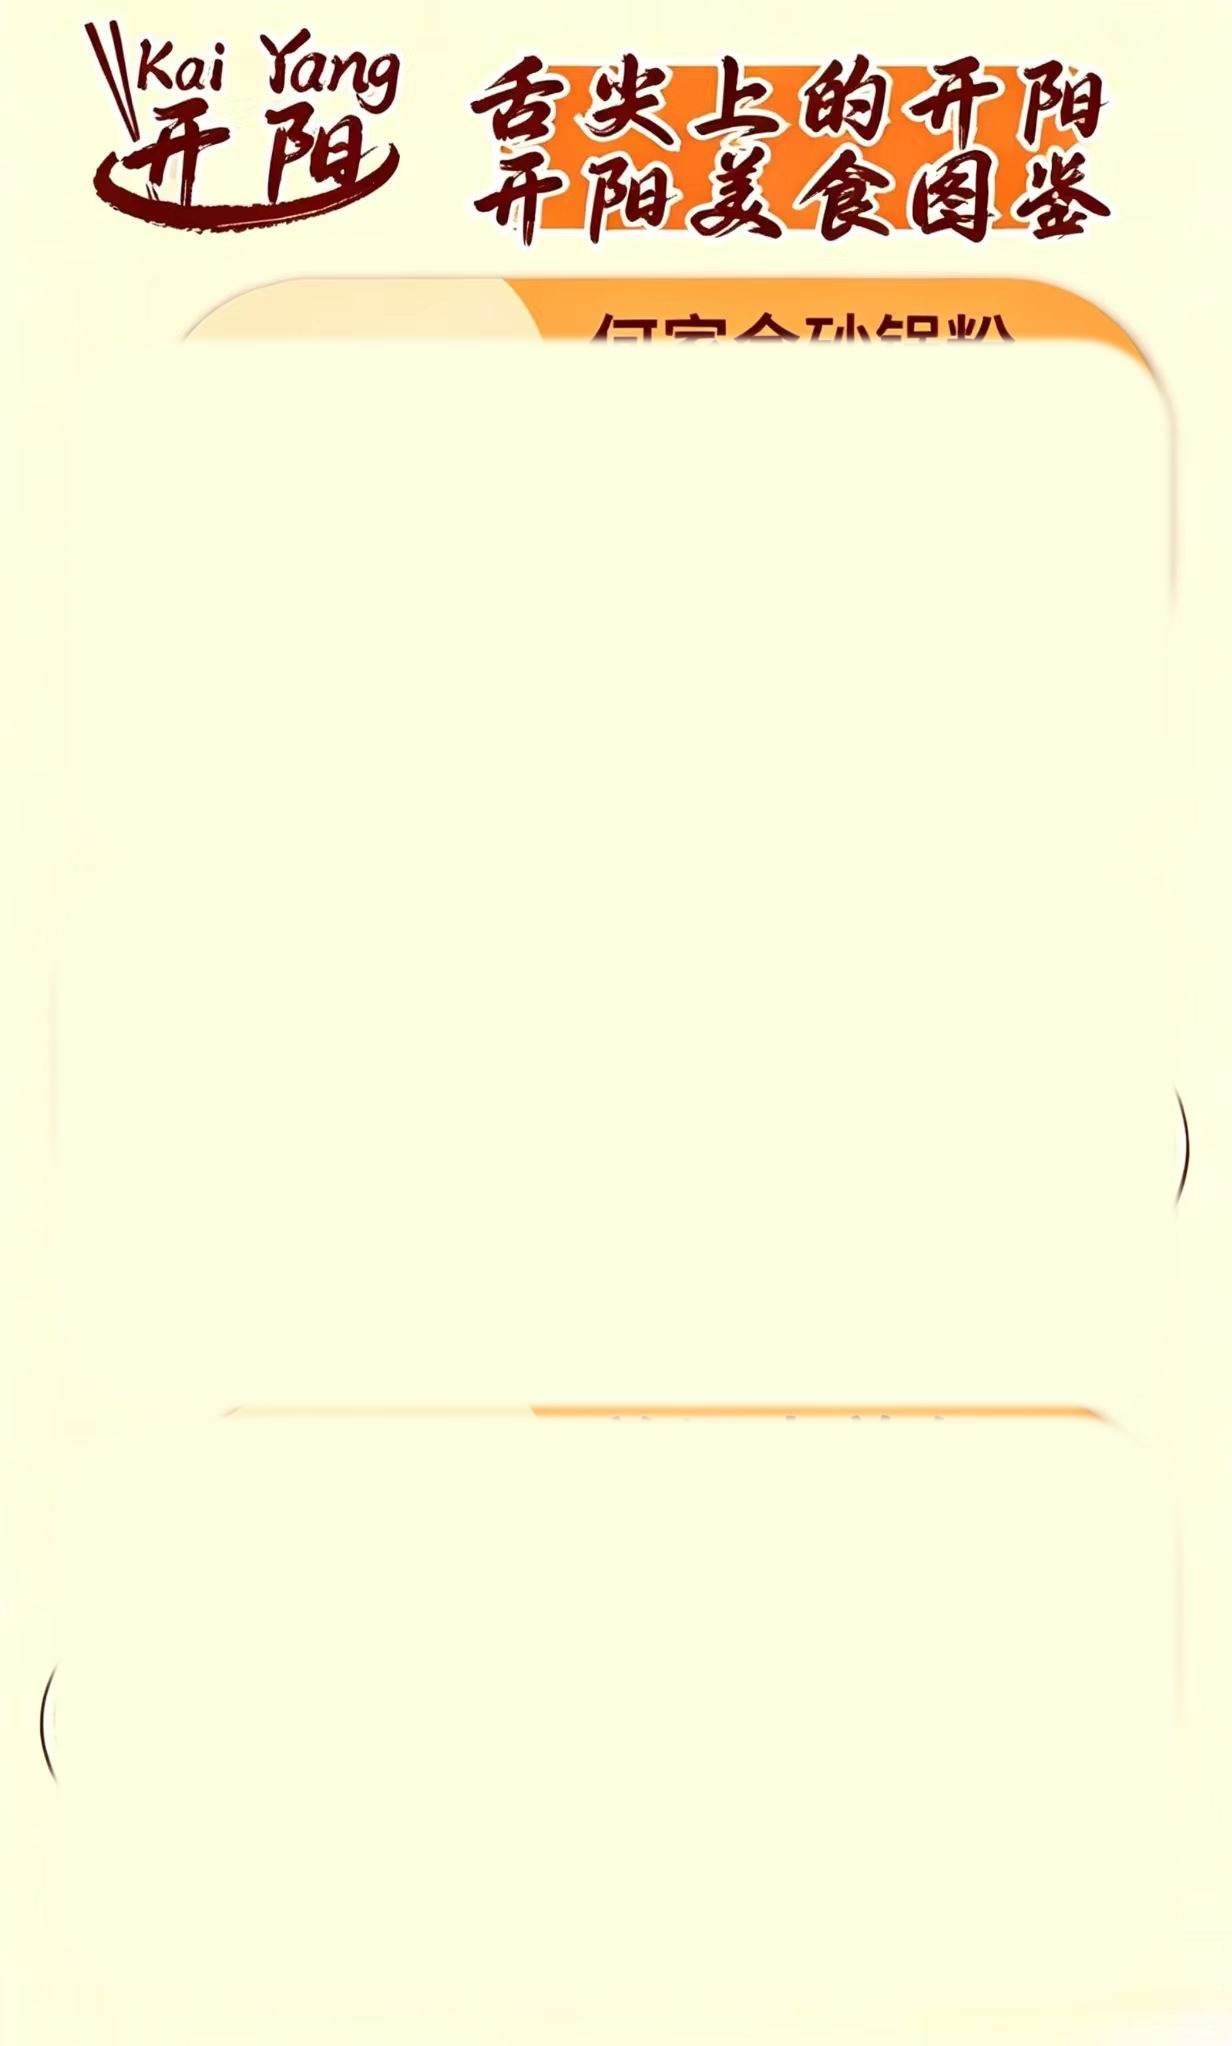
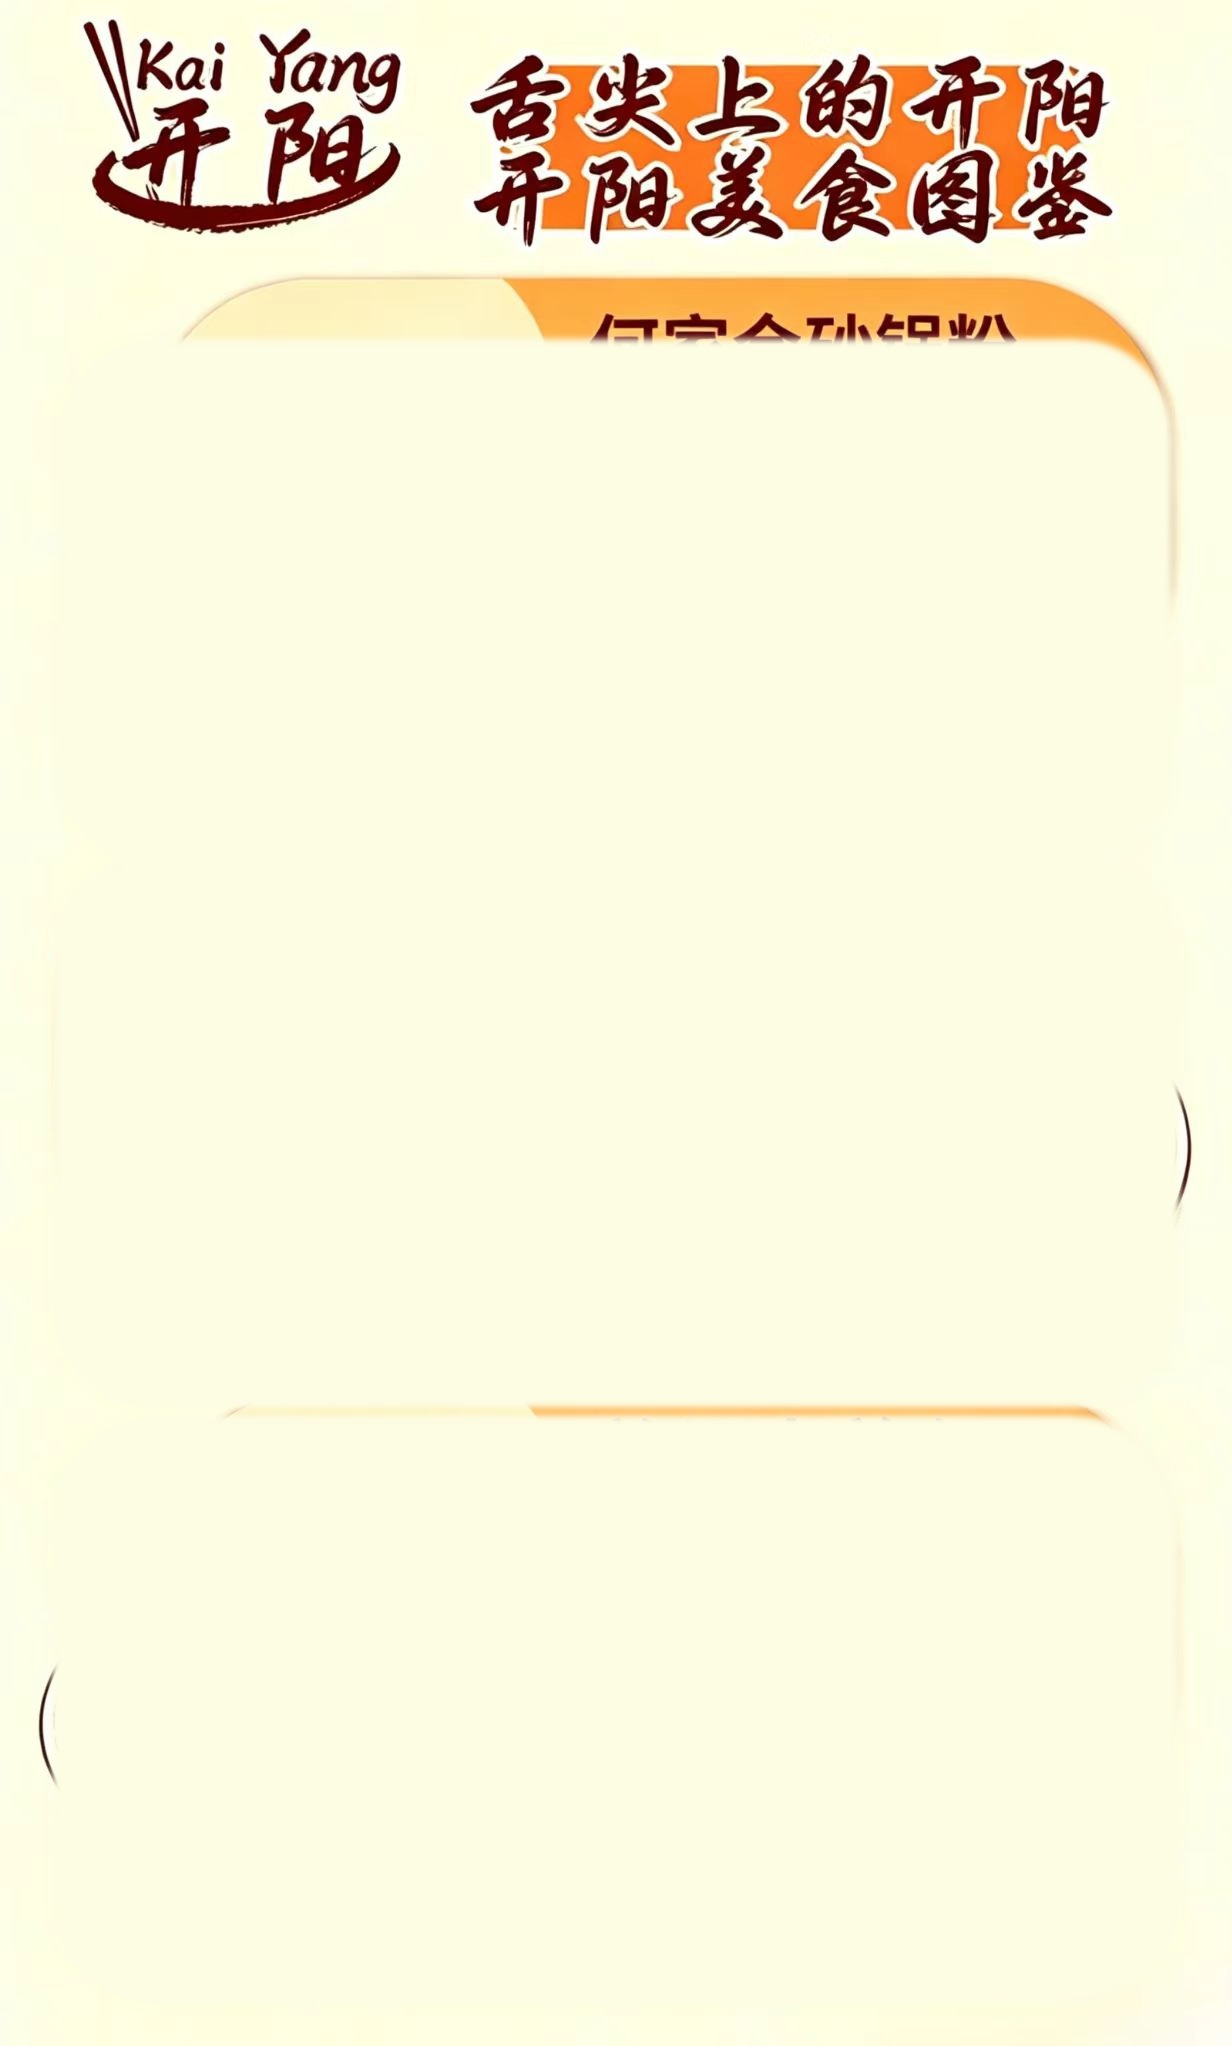
Refresh updated poster page 1.

diff --git a/js/shops.js b/js/shops.js
@@ -226,8 +226,8 @@ window.KAIYANG_FOOD_MAP = {
    */
   posterPages: [
     {
-      image: "assets/images/pages/01.jpg?v=0930g",
-      bgImage: "assets/images/pages/01-bg.jpg?v=0930g",
+      image: "assets/images/pages/01.jpg?v=0930h",
+      bgImage: "assets/images/pages/01-bg.jpg?v=0930h",
       staticPieces: [],
       titlePieces: [
         { left: 6, top: 2.6, width: 88, height: 17.6, delay: 0 },
@@ -256,8 +256,8 @@ window.KAIYANG_FOOD_MAP = {
       cardPieces: []
     },
     {
-      image: "assets/images/pages/02.jpg?v=0930g",
-      bgImage: "assets/images/pages/02-bg.jpg?v=0930g",
+      image: "assets/images/pages/02.jpg?v=0930h",
+      bgImage: "assets/images/pages/02-bg.jpg?v=0930h",
       hotspots: [
         { shopId: 1, left: 48, top: 33.2, width: 42, height: 7 },
         { shopId: 2, left: 7, top: 58.8, width: 40, height: 7 },
@@ -273,8 +273,8 @@ window.KAIYANG_FOOD_MAP = {
       ]
     },
     {
-      image: "assets/images/pages/03.jpg?v=0930g",
-      bgImage: "assets/images/pages/03-bg.jpg?v=0930g",
+      image: "assets/images/pages/03.jpg?v=0930h",
+      bgImage: "assets/images/pages/03-bg.jpg?v=0930h",
       hotspots: [
         { shopId: 4, left: 48, top: 31.2, width: 42, height: 7 },
         { shopId: 5, left: 7, top: 56.8, width: 40, height: 7 },
@@ -290,8 +290,8 @@ window.KAIYANG_FOOD_MAP = {
       ]
     },
     {
-      image: "assets/images/pages/04.jpg?v=0930g",
-      bgImage: "assets/images/pages/04-bg.jpg?v=0930g",
+      image: "assets/images/pages/04.jpg?v=0930h",
+      bgImage: "assets/images/pages/04-bg.jpg?v=0930h",
       hotspots: [
         { shopId: 7, left: 47, top: 26.2, width: 43, height: 7 },
         { shopId: 8, left: 7, top: 56.2, width: 40, height: 7.2 },
@@ -307,8 +307,8 @@ window.KAIYANG_FOOD_MAP = {
       ]
     },
     {
-      image: "assets/images/pages/05.jpg?v=0930g",
-      bgImage: "assets/images/pages/05-bg.jpg?v=0930g",
+      image: "assets/images/pages/05.jpg?v=0930h",
+      bgImage: "assets/images/pages/05-bg.jpg?v=0930h",
       hotspots: [
         { shopId: 10, left: 50, top: 26.5, width: 42, height: 7.5 },
         { shopId: 11, left: 50, top: 54.2, width: 42, height: 7.5 },
@@ -324,8 +324,8 @@ window.KAIYANG_FOOD_MAP = {
       ]
     },
     {
-      image: "assets/images/pages/06.jpg?v=0930g",
-      bgImage: "assets/images/pages/06-bg.jpg?v=0930g",
+      image: "assets/images/pages/06.jpg?v=0930h",
+      bgImage: "assets/images/pages/06-bg.jpg?v=0930h",
       hotspots: [
         { shopId: 13, left: 48, top: 28.5, width: 42, height: 7.2 },
         { shopId: 14, left: 7, top: 55.8, width: 40, height: 7.2 },
@@ -341,8 +341,8 @@ window.KAIYANG_FOOD_MAP = {
       ]
     },
     {
-      image: "assets/images/pages/07.jpg?v=0930g",
-      bgImage: "assets/images/pages/07-bg.jpg?v=0930g",
+      image: "assets/images/pages/07.jpg?v=0930h",
+      bgImage: "assets/images/pages/07-bg.jpg?v=0930h",
       hotspots: [
         { shopId: 16, left: 48, top: 28.2, width: 42, height: 7.2 },
         { shopId: 17, left: 7, top: 55.5, width: 40, height: 7.2 },

diff --git a/h5.html b/h5.html
@@ -19,7 +19,7 @@
   <meta property="og:image:width" content="500" />
   <meta property="og:image:height" content="500" />
   <link rel="image_src" href="https://kai-yang-mei-shi.onrender.com/assets/images/share-thumb.jpg" />
-  <link rel="stylesheet" href="css/h5.css?v=pop9" />
+  <link rel="stylesheet" href="css/h5.css?v=pop10" />
 </head>
 <body>
   <div class="h5-root">
@@ -37,8 +37,8 @@
       <span>上滑继续</span>
     </div>
   </div>
-  <script src="js/shops.js?v=pop9"></script>
+  <script src="js/shops.js?v=pop10"></script>
   <script src="js/share.js"></script>
-  <script src="js/h5.js?v=pop9"></script>
+  <script src="js/h5.js?v=pop10"></script>
 </body>
 </html>

diff --git a/index.html b/index.html
@@ -31,7 +31,7 @@
       <span id="dateText">贵州</span>
     </p>
     <a class="wx-cover-link" href="h5.html" id="coverLink">
-      <img id="heroImage" src="assets/images/article-cover.jpg?v=0930g" alt="开阳特色美食图鉴封面" />
+      <img id="heroImage" src="assets/images/article-cover.jpg?v=0930h" alt="开阳特色美食图鉴封面" />
     </a>
   </article>
   <script src="js/shops.js"></script>
